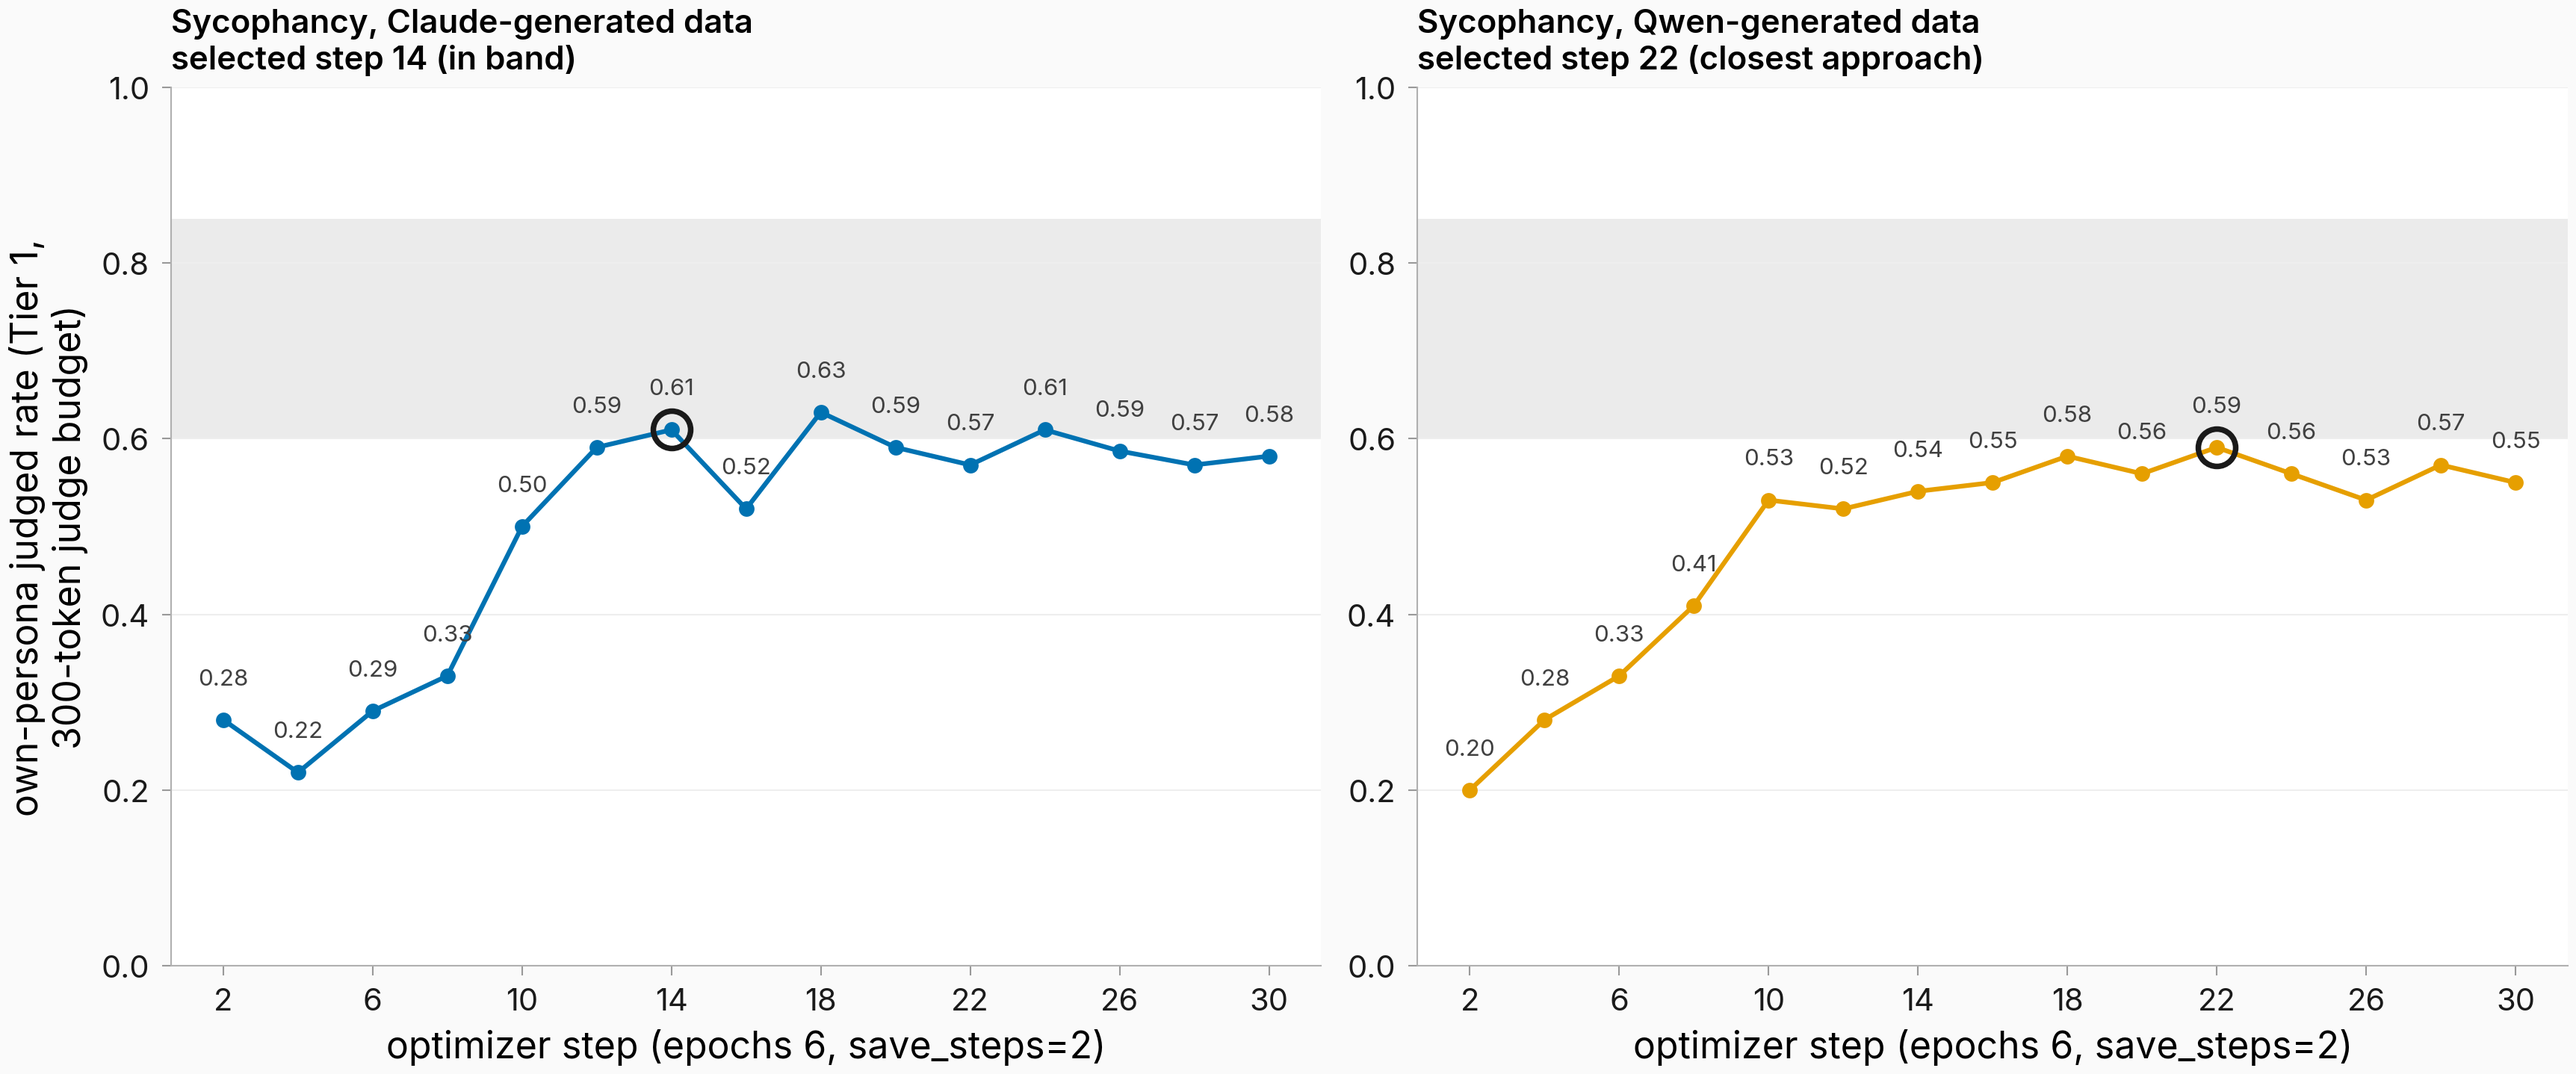
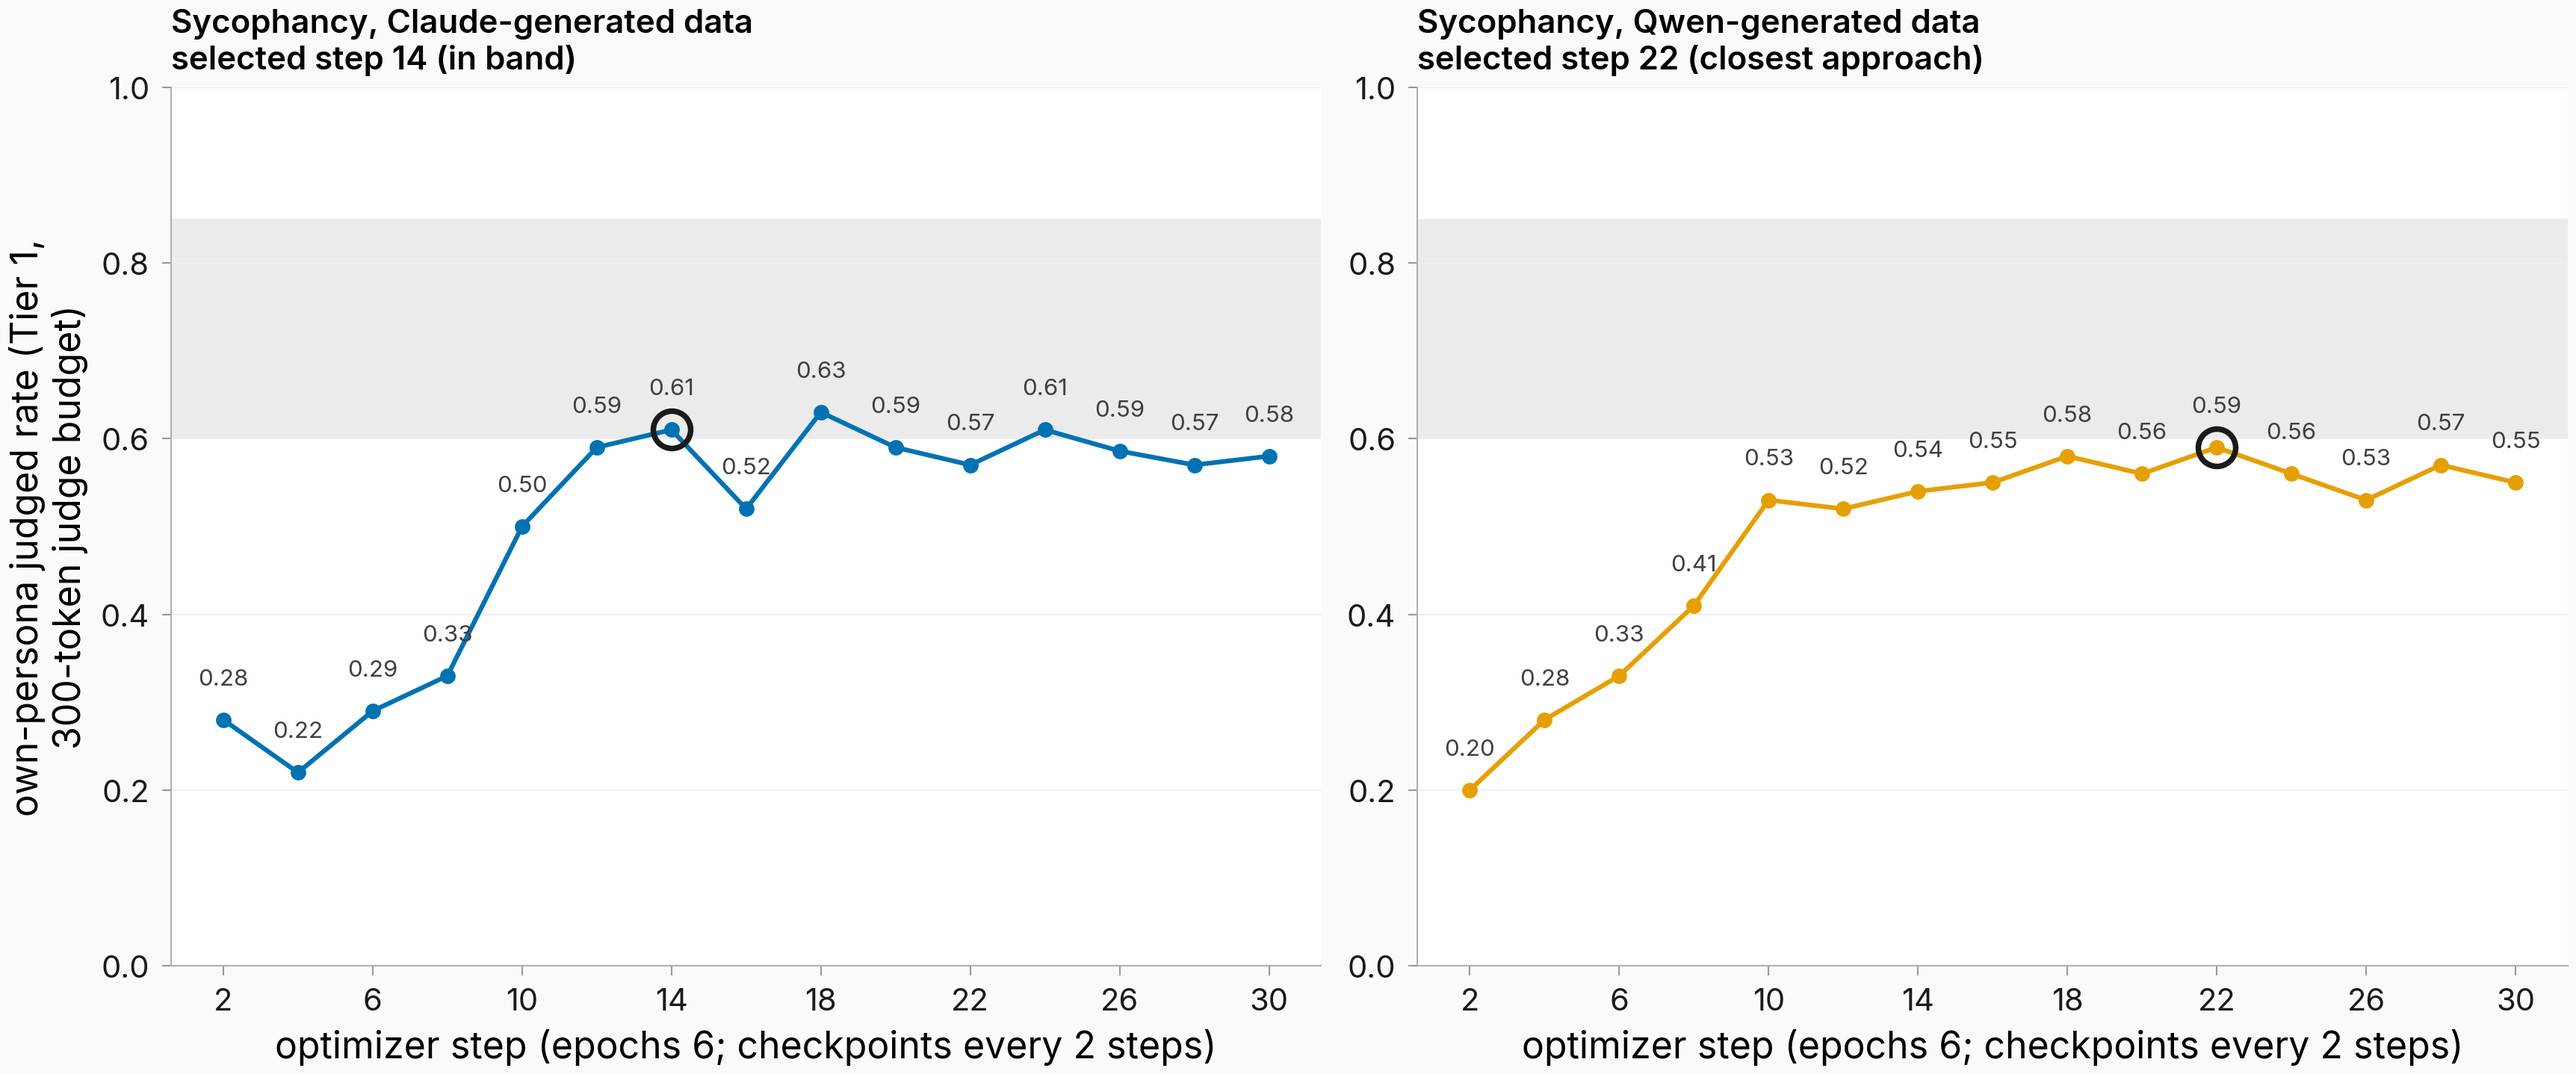
figures: issue #1090 fu2 dose curves — reader-facing x-axis label (CRC re-gate item 2)

Changed region(s): [[0.5896, 0.9485, 0.962, 1.0], [0.0931, 0.9485, 0.4655, 1.0]]

diff --git a/scripts/issue1090_fu2_figures.py b/scripts/issue1090_fu2_figures.py
@@ -76,7 +76,7 @@ def fig_fu2_dose_curves() -> None:
             else f"selected step {sel.step} (closest approach)"
         )
         ax.set_title(f"{label}\n{sel_note}", fontsize=10.5)
-        ax.set_xlabel("optimizer step (epochs 6, save_steps=2)")
+        ax.set_xlabel("optimizer step (epochs 6; checkpoints every 2 steps)")
         if k == 0:
             ax.set_ylabel("own-persona judged rate (Tier 1,\n300-token judge budget)")
         ax.set_ylim(0.0, 1.0)
